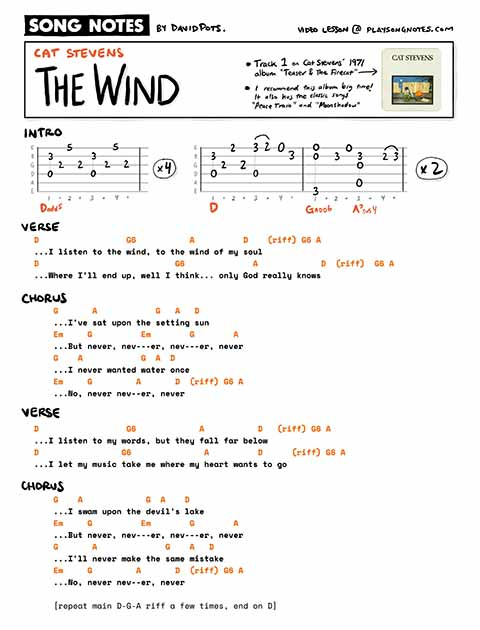
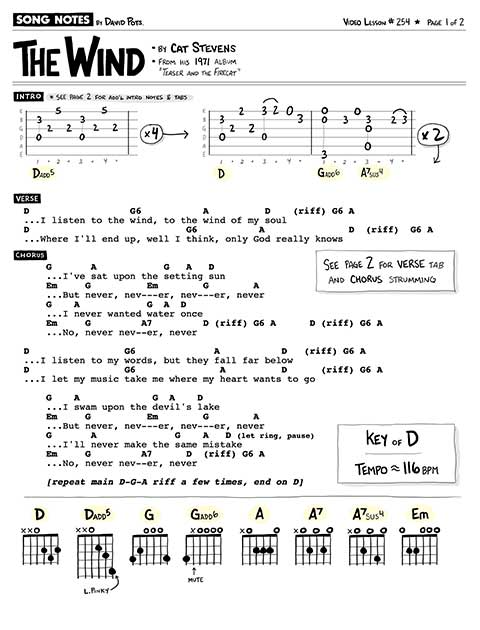
Adds 79 and 254 pdf links on musicnotes

Changed region(s): [[0.0312, 0.0, 0.9688, 0.9651], [0.5, 0.9349, 0.5625, 0.9651], [0.625, 0.6032, 0.6562, 0.6333]]

diff --git a/_lessons/79 [Townes Van Zandt] Dead Flowers.md b/_lessons/79 [Townes Van Zandt] Dead Flowers.md
@@ -14,8 +14,9 @@ yt_video_id: jROWArwvnnI
 slug: "79"
 redirect_from:
   - /songs/townes-van-zandt-dead-flowers/
-pdf_version: copyright
+pdf_version: musicnotes
 pdf_numpages: 3
+musicnotes_url: https://www.musicnotes.com/l/gBRMw
 patreon_lesson_available: true
 patreon_lesson_url: https://www.patreon.com/posts/23634325
 ---
@@ -44,67 +45,69 @@ Video timestamps:
 
 ## Lyrics with chords
 
-    INTRO (fill in strumming as you please)
+    See my sheet music for the lyrics, chords, and intro tab.
 
-        E |–––3–––0–3–0––|–––––––––0––––|–––––––––––––|––––––––––––|–
-        B |–––1––––––––––|––3––––––––3––|––1––––––1–––|––1–––––––––|–
-        G |–––0––––––––––|––0–––––––––––|––2––0h2–––––|––0–––––––––|–
-        D |–––2––––––––––|––0–––––––––––|––3––––––––––|––2–––––––––|–  ...repeat as   
-        A |–––3––––––––––|––2–––––––––––|–––––––––––––|––3–––––––––|–     desired
-        E |––––––––––––––|––3–––––––––––|–––––––––––––|––––––––––––|–
-              C             G              F             C           
+<!-- INTRO (fill in strumming as you please)
 
-    VERSE
-                  C                  G              F                C
-        Well now, when you're sitting there in your silk upholster chair
-        C               G                   F         C
-        Talking to some rich folks that you know
-              C                  G        F           C
-        And I hope you won't see me in my ragged company
-                 C                G          F        C
-        Oh, that you know I could never be alone
+    E |–––3–––0–3–0––|–––––––––0––––|–––––––––––––|––––––––––––|–
+    B |–––1––––––––––|––3––––––––3––|––1––––––1–––|––1–––––––––|–
+    G |–––0––––––––––|––0–––––––––––|––2––0h2–––––|––0–––––––––|–
+    D |–––2––––––––––|––0–––––––––––|––3––––––––––|––2–––––––––|–  ...repeat as   
+    A |–––3––––––––––|––2–––––––––––|–––––––––––––|––3–––––––––|–     desired
+    E |––––––––––––––|––3–––––––––––|–––––––––––––|––––––––––––|–
+          C             G              F             C           
 
-    CHORUS
-                    G                          C
-            Take me down little Susie, take me down
-            G                                             C
-            I know you think you're the queen of the underground
-            F                              C
-            ...Send me dead flowers every morning
-            F                              C
-            ...Send me dead flowers by the mail
-            F                              C
-            ...Send me dead flowers to my wedding
-                  C                   G             F         C
-            And I won't forget to put roses on your grave
+VERSE
+              C                  G              F                C
+    Well now, when you're sitting there in your silk upholster chair
+    C               G                   F         C
+    Talking to some rich folks that you know
+          C                  G        F           C
+    And I hope you won't see me in my ragged company
+             C                G          F        C
+    Oh, that you know I could never be alone
 
-    VERSE
-              C                    G            F              C
-        Well, when you're sitting back in your rose pink Cadillac
-        C                 G           F      C
-        Making bets on Kentucky Derby Day
-                    C              G            F            C
-        Ah, I'll be in my basement room with a needle and a spoon
-              C             G              F       C
-        And another girl to take my pain away
+CHORUS
+                G                          C
+        Take me down little Susie, take me down
+        G                                             C
+        I know you think you're the queen of the underground
+        F                              C
+        ...Send me dead flowers every morning
+        F                              C
+        ...Send me dead flowers by the mail
+        F                              C
+        ...Send me dead flowers to my wedding
+              C                   G             F         C
+        And I won't forget to put roses on your grave
 
-    CHORUS
-                    G                          C
-            Take me down little Susie, take me down
-              G                                           C
-            I know you think you're the queen of the underground
-                         F                             C
-            And you can... send me dead flowers every morning
-            F                              C
-            ...Send me dead flowers by the mail
-            F                              C
-            ...Send me dead flowers to my wedding
-                  C                   G             F         C
-            And I won't forget to put roses on your grave
+VERSE
+          C                    G            F              C
+    Well, when you're sitting back in your rose pink Cadillac
+    C                 G           F      C
+    Making bets on Kentucky Derby Day
+                C              G            F            C
+    Ah, I'll be in my basement room with a needle and a spoon
+          C             G              F       C
+    And another girl to take my pain away
 
-        [ instrumental verse ]
+CHORUS
+                G                          C
+        Take me down little Susie, take me down
+          G                                           C
+        I know you think you're the queen of the underground
+                     F                             C
+        And you can... send me dead flowers every morning
+        F                              C
+        ...Send me dead flowers by the mail
+        F                              C
+        ...Send me dead flowers to my wedding
+              C                   G             F         C
+        And I won't forget to put roses on your grave
 
-            [ repeat chorus ]
+    [ instrumental verse ]
+
+        [ repeat chorus ] -->
 
 ## Editor's notes
 
@@ -168,13 +171,15 @@ Chorus:
 
 Here's the very distinctive riff you'll hear in the intro of this song. This shows the chords you'll need to play, in addition to the key melody notes you'll want to integrate into your strumming / plucking / picking. Note, I didn't learn this as a proper Travis-picking style song (which is how Townes plays it), so had to make do with this simplified arrangement. See my video lesson for reference!
 
-    E |–––3–––0–3–0––|–––––––––0––––|–––––––––––––|––––––––––––––||
-    B |–––1––––––––––|––3––––––––3––|––1––––––1–––|––1–––––––––––||
-    G |–––0––––––––––|––0–––––––––––|––2––0h2–––––|––0–––––––––––||
-    D |–––2––––––––––|––0–––––––––––|––3––––––––––|––2–––––––––––||
-    A |–––3––––––––––|––2–––––––––––|–––––––––––––|––3–––––––––––||
-    E |––––––––––––––|––3–––––––––––|–––––––––––––|––––––––––––––||
-          C             G              F             C           
+    See my sheet music for the intro tab, as played in my video lesson.
+
+<!-- E |–––3–––0–3–0––|–––––––––0––––|–––––––––––––|––––––––––––––||
+B |–––1––––––––––|––3––––––––3––|––1––––––1–––|––1–––––––––––||
+G |–––0––––––––––|––0–––––––––––|––2––0h2–––––|––0–––––––––––||
+D |–––2––––––––––|––0–––––––––––|––3––––––––––|––2–––––––––––||
+A |–––3––––––––––|––2–––––––––––|–––––––––––––|––3–––––––––––||
+E |––––––––––––––|––3–––––––––––|–––––––––––––|––––––––––––––||
+      C             G              F             C            -->
 
 ## Other riffs
 
@@ -184,37 +189,43 @@ There are many of these little flourish riffs heard in the Townes Van Zandt reco
 
 First, you have this one, which is quite circular in sound:
 
-    E |–––––––––0–––––––––––0–––––––––––0–––––––––1–––
-    B |–––1––3–––––3––1––3–––––3––1––3–––––3––1–––1–––
-    G |–––0–––––––––––––––––––––––––––––––––––––––2–––
-    D |–––2–––––––––––––––––––––––––––––––––––––––3–––
-    A |–––3–––––––––––––––––––––––––––––––––––––––3–––
-    E |–––––––––––––––––––––––––––––––––––––––––––1–––
-          C                                       F   
+    See my sheet music for the tab.
+
+<!-- E |–––––––––0–––––––––––0–––––––––––0–––––––––1–––
+B |–––1––3–––––3––1––3–––––3––1––3–––––3––1–––1–––
+G |–––0–––––––––––––––––––––––––––––––––––––––2–––
+D |–––2–––––––––––––––––––––––––––––––––––––––3–––
+A |–––3–––––––––––––––––––––––––––––––––––––––3–––
+E |–––––––––––––––––––––––––––––––––––––––––––1–––
+      C                                       F    -->
 
 ### Transition riff #2
 
 Second, you have this one which is basically a quick jump to a F/C, before going back to the C (and then resolving to a full proper F):
 
-    E |–––0–––––––––––––––––––––––––––––––––––––––1–––
-    B |–––1––––––––1–––1–––1––––––––––––––––––1–––1–––
-    G |–––0––––––––0–––2–––0––––––––––––––––––0–––2–––
-    D |–––2––––––––2–––3–––2––––––––––––––––––2–––3–––
-    A |–––3––––––––3–––3–––3––––––––––––––––––3–––3–––
-    E |–––––––––––––––––––––––––––––––––––––––––––1–––
-          C                                       F   
+    See my sheet music for the tab.
+
+<!-- E |–––0–––––––––––––––––––––––––––––––––––––––1–––
+B |–––1––––––––1–––1–––1––––––––––––––––––1–––1–––
+G |–––0––––––––0–––2–––0––––––––––––––––––0–––2–––
+D |–––2––––––––2–––3–––2––––––––––––––––––2–––3–––
+A |–––3––––––––3–––3–––3––––––––––––––––––3–––3–––
+E |–––––––––––––––––––––––––––––––––––––––––––1–––
+      C                                       F    -->
 
 ### Transition riff #3
 
 Third, you have this one, which has a nice walk-down descending sound:
 
-    E |–––0–––––––––––––––––––––––––––––––––––––––1–––
-    B |–––1–––––––––––––––––––––––––––––––––––––––1–––
-    G |–––0–––––––––––––2––0––––––––––––––––––––––2–––
-    D |–––2–––––––––––––––––––2––0––––––––––––––––3–––
-    A |–––3–––––––––––––––––––––––––3––0–––––0––––3–––
-    E |–––––––––––––––––––––––––––––––––––3–––––––1–––
-          C                                       F   
+    See my sheet music for the tab.
+
+<!-- E |–––0–––––––––––––––––––––––––––––––––––––––1–––
+B |–––1–––––––––––––––––––––––––––––––––––––––1–––
+G |–––0–––––––––––––2––0––––––––––––––––––––––2–––
+D |–––2–––––––––––––––––––2––0––––––––––––––––3–––
+A |–––3–––––––––––––––––––––––––3––0–––––0––––3–––
+E |–––––––––––––––––––––––––––––––––––3–––––––1–––
+      C                                       F    -->
 
 ## Good luck!
 

diff --git a/backlog.md b/backlog.md
@@ -18,8 +18,10 @@ permalink: /backlog/
 
 Sheet music for the following songs are all available for purchase at Musicnotes.com. Each arrangement is officially licensed & legal, and also uses my latest sheet music formatting.
 
+    Jan 4  - The Wind
+    Jan 4  - Dead Flowers
     Dec 10 - Yesterday
-    Nov 30 - Happy Xmas (War is Over)
+    Nov 30 - Happy Xmas
     Nov 23 - Mrs Robinson
     Nov 22 - Hotel California
     Nov 12 - Hello In There
@@ -43,46 +45,45 @@ Sheet music for the following songs are all available for purchase at Musicnotes
 <h3>6+ requests:</h3>
 
     Stairway to Heaven   XXXXXXXXXXXXXXXX
-    The Wind             XXXXXXXXXXXXXX
-    Tuesday's Gone       XXXXXXXX
+    Tuesday's Gone       XXXXXXXXX
     Sweet Child o Mine   XXXXXXXX
     Creep                XXXXXXXX
     Wildflowers          XXXXXXXX
     Me and Bobby McGee • XXXXXXX
+    Lola                 XXXXXXX
     If I had a Boat    • XXXXXX
-    Lola                 XXXXXX
-    Dead Flowers       • XXXXXX
 
 <br />
 <h3>3-5 requests:</h3>
 
-    A Million Dreams •         XXXXX
-    Banded Clovis •            XXX
-    California Dreaming        XXX
-    Feeling Whitney            XXX
-    Game of Thrones (theme)    XXX
-    Guantanamara               XXXX
-    Highwayman •               XXX
-    LA Freeway                 XXX
-    Let It Go                  XXX
-    Light On •                 XXX
-    Like a Rolling Stone       XXXXX
-    Maybe it's time •          XXXXX
-    My Fav. Picture of You     XXXX
-    My Old Kentucky Home       XXX
-    Remember Me •              XXX
-    Say It Ain't So            XXXX
-    Total Eclipse of the Heart XXXXX
-    Under the Bridge •         XXX
-    We Are the Champions •     XXX
-    Whitehouse Road            XXX
+    A Million Dreams •          XXXXX
+    Always Remember Us This Way XXX
+    Banded Clovis •             XXX
+    California Dreaming         XXX
+    Feeling Whitney             XXX
+    Game of Thrones (theme)     XXX
+    Guantanamara                XXXX
+    Highwayman •                XXX
+    LA Freeway                  XXX
+    Let It Go                   XXX
+    Light On •                  XXX
+    Like a Rolling Stone        XXXXX
+    Maybe it's time •           XXXXX
+    My Fav. Picture of You      XXXX
+    My Old Kentucky Home        XXX
+    Remember Me •               XXX
+    Say It Ain't So             XXXX
+    Total Eclipse of the Heart  XXXXX
+    Under the Bridge •          XXX
+    Walk Right In •             XXX
+    We Are the Champions •      XXX
+    Whitehouse Road             XXX
 
 <br />
 <h3>1-2 requests:</h3>
 
     About a Girl                X
     Acid Tongue                 XX
-    Always Remember Us This Way XX
     American Girl               XX
     Apple Blossom               X
     Audition (Fools Who Dream)  XX
@@ -100,8 +101,7 @@ Sheet music for the following songs are all available for purchase at Musicnotes
     Running Down a Dream        XX  
     Sedona                      X
     Surf Rider                  XX
-    Walk Right In •             XX
-    When the Man Comes Around   X
+    When the Man Comes Around   XX
     Where Rainbows Never Die    XX
     Year Clayton Delaney Died   XX
 

diff --git a/_lessons/254[Cat Stevens] The Wind.md b/_lessons/254[Cat Stevens] The Wind.md
@@ -4,8 +4,9 @@ title: '"The Wind" by Cat Stevens'
 song_title:  The Wind
 artist: Cat Stevens
 year: 1971
-pdf_version: copyright
+pdf_version: musicnotes
 pdf_numpages: 2
+musicnotes_url: https://www.musicnotes.com/l/zBRMp
 patreon_lesson_available: true
 patreon_lesson_url: https://www.patreon.com/posts/29562940
 category: full_song
@@ -29,7 +30,7 @@ redirect_from:
 
 In this lesson I'll show & explain how to play "The Wind" by Cat Stevens, from his 1971 album Teaser and the Firecat. This is a short but fantastic Cat Stevens song, combining fingerstyle verses with strummed chorus. I'll explain the chords, talk through the fingerpicking (main riff included), and break down the verse and chorus sections. I hope you enjoy!
 
-## Timestamps
+Video timestamps:
 
 - 0:00 Playthrough & overview
 - 1:53 Chord shapes
@@ -38,46 +39,3 @@ In this lesson I'll show & explain how to play "The Wind" by Cat Stevens, from h
 - 15:47 Chorus (strummed)
 - 19:55 Chorus (fingerpicked)
 - 22:21 Farewell
-
-## Lyrics w/ chords
-
-    INTRO
-        Dadd5 (repeat) => D-riff G6 A (repeat)
-
-    VERSE
-        D                  G6           A          D    (riff) G6 A
-        ...I listen to the wind, to the wind of my soul
-        D                            G6              A             D  (riff)  G6 A
-        ...Where I'll end up, well I think... only God really knows
-
-    CHORUS
-            G       A            G   A   D
-            ...I've sat upon the setting sun
-            Em     G          Em        G        A
-            ...But never, nev---er, nev---er, never
-            G    A            G  A  D
-            ...I never wanted water once
-            Em     G         A       D  (riff) G6 A
-            ...No, never nev--er, never
-
-    VERSE
-        D                  G6             A           D   (riff) G6 A
-        ...I listen to my words, but they fall far below
-        D                 G6               A          D      (riff) G6 A
-        ...I let my music take me where my heart wants to go
-
-    CHORUS
-            G    A             G  A    D
-            ...I swam upon the devil's lake
-            Em     G          Em        G        A
-            ...But never, nev---er, nev---er, never
-            G       A              G    A   D
-            ...I'll never make the same mistake
-            Em     G         A       D  (riff) G6 A
-            ...No, never nev--er, never
-
-            [repeat main D-G-A riff a few times, end on D]
-
-## Good luck!
-
-I hope this helps. Shoot me any questions or comments in an email, I'd be happy to respond.
